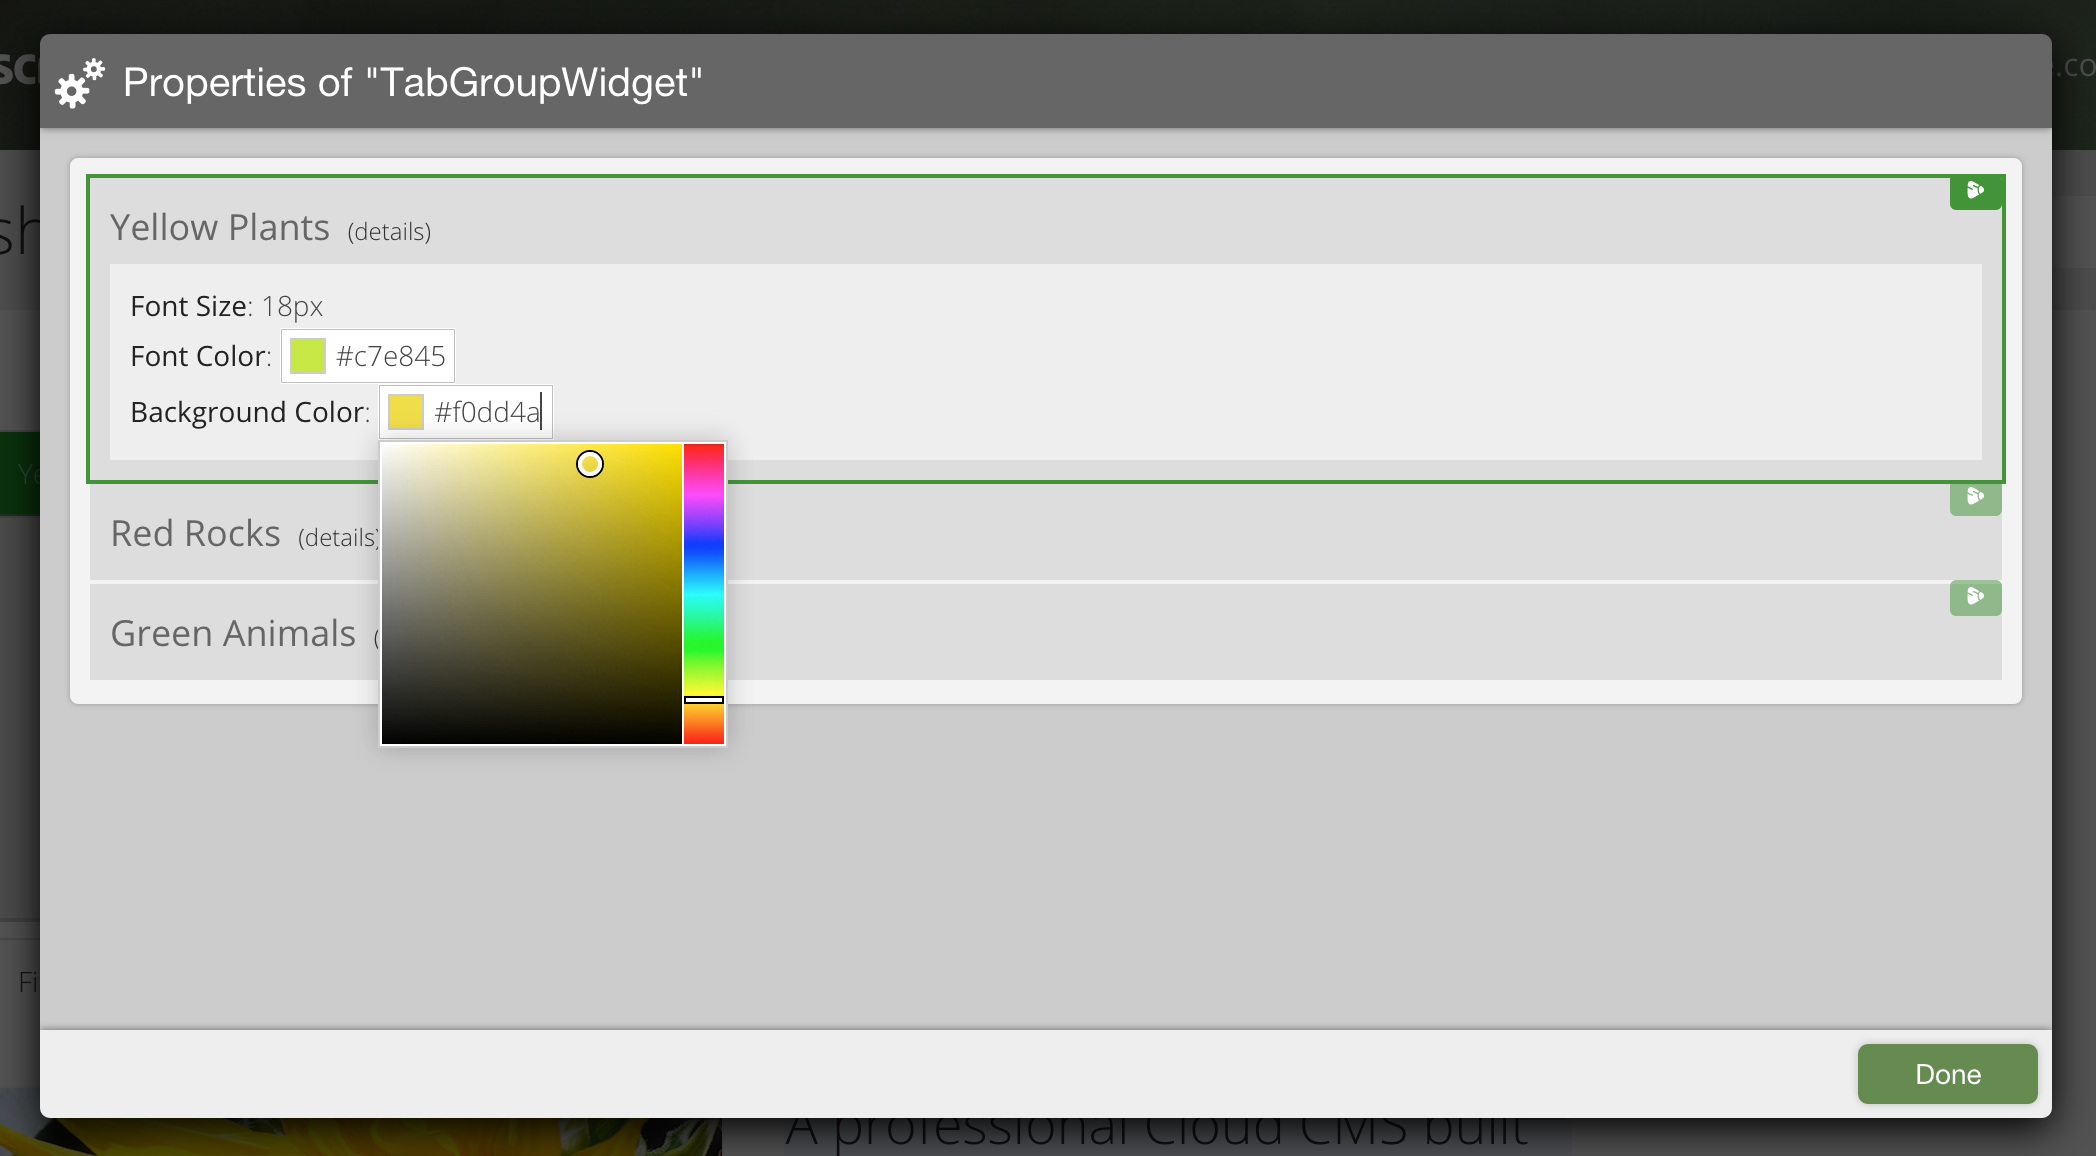
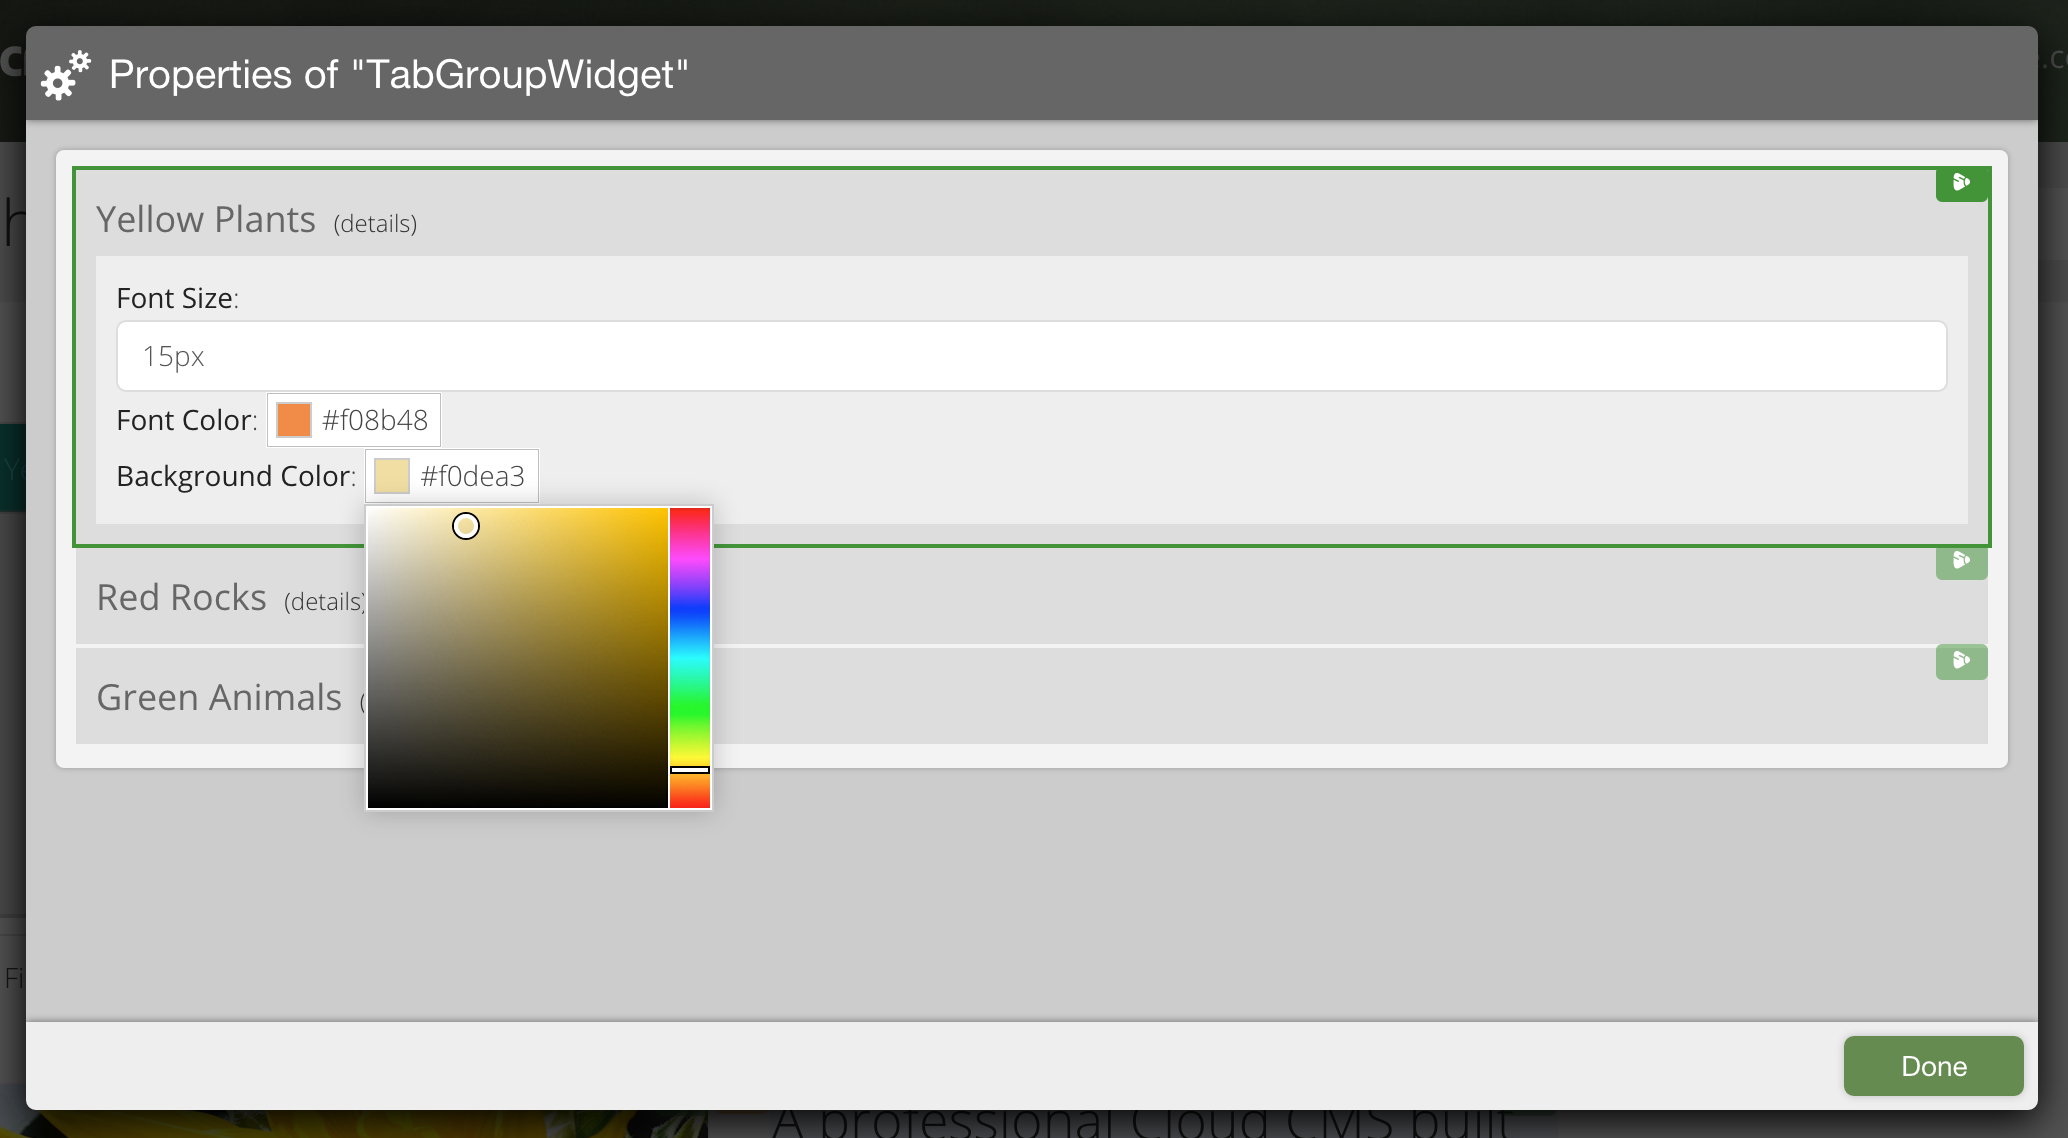
Enum fields (and editor) for font size
Fixes #8

Changed region(s): [[0.0, 0.0, 1.0, 1.0]]

diff --git a/app/models/tab_widget.rb b/app/models/tab_widget.rb
@@ -1,8 +1,10 @@
 class TabWidget < Widget
+  FONT_SIZES = (1..100).map { |i| "#{i}px" }
+
   attribute :title, :string, default: 'New Tab'
   attribute :content, :widgetlist
 
-  attribute :font_size, :string, default: '14px'
+  attribute :font_size, :enum, values: FONT_SIZES, default: '14px'
   attribute :font_color, :string, default: '#000000'
   attribute :background_color, :string, default: '#FFFFFF'
 
